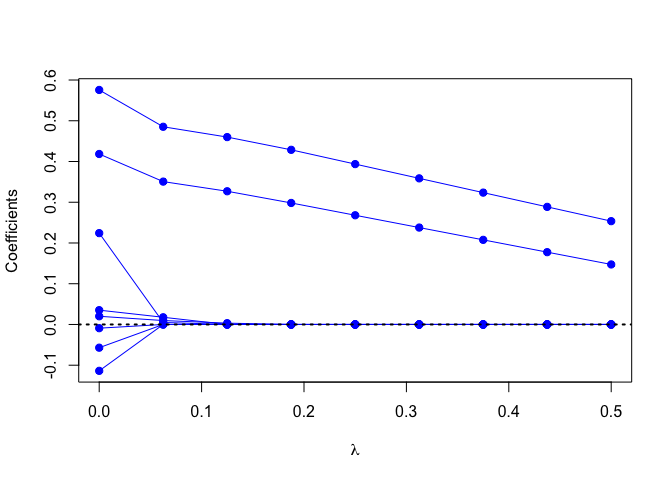
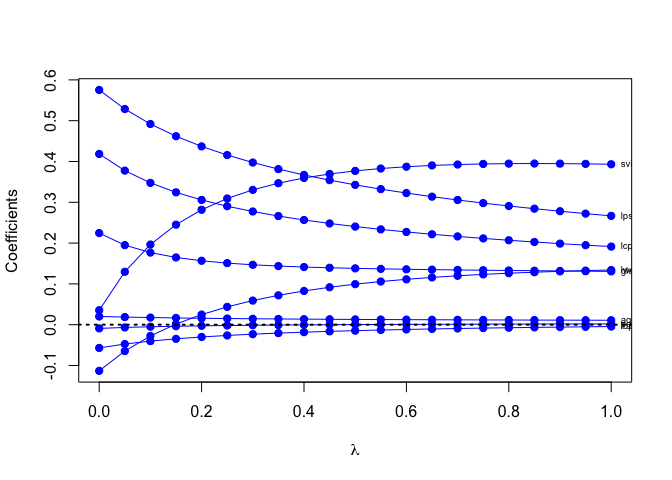
hw3 path diagram fixed

diff --git a/hw3/hw3.md b/hw3/hw3.md
@@ -1,7 +1,7 @@
 Homework 3
 ================
 Painter, Ty
-Thu Feb 25 09:12:05 2021
+Mon Mar 1 20:15:35 2021
 
 # Using the RMarkdown/knitr/github mechanism, implement the following tasks:
 
@@ -164,29 +164,59 @@ library('glmnet')
 form <- lcavol ~ 0 + lweight + age + lbph + lcp + pgg45 + lpsa + svi + gleason # what is this?
 x_inp <- model.matrix(form, data=prostate_train) # math to form this matrix?
 y_out <- prostate_train$lcavol
-ridge_reg <- glmnet(x=x_inp, y=y_out, lambda=seq(0.5, 0, length=9))
+ridge_reg <- glmnet(x=x_inp, y=y_out, lambda=seq(1, 0, -0.05), alpha=0)
 print(ridge_reg$beta) # beta over sequence of lambda
 ```
 
-    ## 8 x 9 sparse Matrix of class "dgCMatrix"
-    ##                s0        s1        s2        s3        s4        s5          s6
-    ## lweight .         .         .         .         .         .         .          
-    ## age     .         .         .         .         .         .         0.003222941
-    ## lbph    .         .         .         .         .         .         .          
-    ## lcp     0.1473018 0.1774814 0.2076694 0.2378575 0.2680456 0.2982337 0.326967382
-    ## pgg45   .         .         .         .         .         .         .          
-    ## lpsa    0.2535992 0.2886141 0.3236241 0.3586341 0.3936441 0.4286541 0.459932037
-    ## svi     .         .         .         .         .         .         .          
-    ## gleason .         .         .         .         .         .         .          
-    ##                  s7           s8
-    ## lweight .           -0.113830185
-    ## age     0.009626789  0.020117489
-    ## lbph    .           -0.056999080
-    ## lcp     0.350633927  0.418428323
-    ## pgg45   .           -0.009111341
-    ## lpsa    0.485226383  0.575597098
-    ## svi     0.017659982  0.035138413
-    ## gleason 0.004936519  0.224229463
+    ## 8 x 21 sparse Matrix of class "dgCMatrix"
+
+    ##    [[ suppressing 21 column names 's0', 's1', 's2' ... ]]
+
+    ##                                                                        
+    ## lweight  0.134011768  0.132519303  0.130744989  0.12864629  0.126173874
+    ## age      0.010831546  0.010978458  0.011134907  0.01130146  0.011479518
+    ## lbph    -0.004560822 -0.005201797 -0.005890082 -0.00664143 -0.007463984
+    ## lcp      0.191466551  0.194960124  0.198707284  0.20268660  0.206927271
+    ## pgg45    0.001911765  0.001819567  0.001717172  0.00160264  0.001474237
+    ## lpsa     0.266701008  0.272237464  0.278098369  0.28432224  0.290951107
+    ## svi      0.393190716  0.394166669  0.394766200  0.39498592  0.394751914
+    ## gleason  0.130622340  0.131177369  0.131718104  0.13227818  0.132866067
+    ##                                                                            
+    ## lweight  0.123269424  0.119863280  0.1158716818  0.1111931576  0.1057367423
+    ## age      0.011670740  0.011877123  0.0121010799  0.0123455384  0.0126162948
+    ## lbph    -0.008367417 -0.009363256 -0.0104653587 -0.0116905450 -0.0130587545
+    ## lcp      0.211463925  0.216338199  0.2216006089  0.2273130852  0.2336122365
+    ## pgg45    0.001329887  0.001167084  0.0009827841  0.0007732439  0.0005320808
+    ## lpsa     0.298034210  0.305629735  0.3138070249  0.3226494596  0.3322362737
+    ## svi      0.393974524  0.392543942  0.3903246503  0.3871479640  0.3827345083
+    ## gleason  0.133493280  0.134175190  0.1349324324  0.1357928799  0.1368039677
+    ##                                                                             
+    ## lweight  0.0992845548  9.167569e-02  0.0826683974  0.0719539790  0.059127616
+    ## age      0.0129137196  1.324527e-02  0.0136179442  0.0140406458  0.014526957
+    ## lbph    -0.0145982826 -1.633988e-02 -0.0183250234 -0.0206075810 -0.023258103
+    ## lcp      0.2404842462  2.481056e-01  0.2566365841  0.2662889676  0.277447149
+    ## pgg45    0.0002563424 -6.281817e-05 -0.0004352185 -0.0008738898 -0.001398912
+    ## lpsa     0.3427336970  3.542772e-01  0.3670625821  0.3813402190  0.397429712
+    ## svi      0.3769402232  3.693573e-01  0.3595330231  0.3468674177  0.330415198
+    ## gleason  0.1380061651  1.394762e-01  0.1413173664  0.1436779613  0.146778188
+    ##                                                                         
+    ## lweight  0.043652593  0.024777969  0.001504802 -0.027603986 -0.064680201
+    ## age      0.015088490  0.015748487  0.016532948  0.017480107  0.018643148
+    ## lbph    -0.026377963 -0.030098852 -0.034621150 -0.040241264 -0.047425776
+    ## lcp      0.290342311  0.305728439  0.324372008  0.347616547  0.377657417
+    ## pgg45   -0.002031353 -0.002810371 -0.003788173 -0.005050263 -0.006739814
+    ## lpsa     0.415786556  0.437009864  0.461951799  0.491849702  0.528596455
+    ## svi      0.309283880  0.281608260  0.245177911  0.196427346  0.129711598
+    ## gleason  0.150949425  0.156678907  0.164800413  0.176722769  0.194999807
+    ##                     
+    ## lweight -0.113137304
+    ## age      0.020098181
+    ## lbph    -0.056962692
+    ## lcp      0.418431830
+    ## pgg45   -0.009116838
+    ## lpsa     0.575318051
+    ## svi      0.035342349
+    ## gleason  0.224585243
 
 ``` r
 ## functions to compute testing/training error with glmnet
@@ -198,10 +228,10 @@ ridge_error <- function(data, fit, lambda, form, loss=L2_loss) {
 }
 
 ## minimize test error
-ridge_error(prostate_test, ridge_reg, lambda=.21, form=form) 
+ridge_error(prostate_test, ridge_reg, lambda=.12, form=form) 
 ```
 
-    ## [1] 0.4641289
+    ## [1] 0.4911847
 
   - Create a figure that shows the training and test error associated
     with ridge regression as a function of lambda
@@ -218,12 +248,13 @@ test_err <- sapply(ridge_reg$lambda, function(lambda)
 ## plot test/train error
 plot(x=range(ridge_reg$lambda),
      y=range(c(train_err, test_err)),
+     xlim=rev(range(ridge_reg$lambda)),
      type='n',
      xlab=expression(lambda),
      ylab='train/test error')
 points(ridge_reg$lambda, train_err, pch=19, type='b', col='darkblue')
-points(ridge_reg$lambda, test_err, pch=19, type='b', col='darkred')
-legend('topleft', c('train','test'), lty=1, pch=19,
+points(ridge_reg$lambda, test_err, pch=19, type='b', col='darkred') # nice 'u' shape, 0.1 minimize test error
+legend('topright', c('train','test'), lty=1, pch=19,
        col=c('darkblue','darkred'), bty='n')
 ```
 
@@ -246,14 +277,13 @@ plot(x=range(ridge_reg$lambda),
      xlab=expression(lambda),
      ylab='Coefficients')
 for(i in 1:nrow(ridge_reg$beta)) {
-  points(x=ridge_reg$lambda, y=ridge_reg$beta[i,], pch=19, col='blue')
-  lines(x=ridge_reg$lambda, y=ridge_reg$beta[i,], col='blue')
+  points(x=ridge_reg$lambda, y=ridge_reg$beta[i,], pch=19, col = "blue")
+  lines(x=ridge_reg$lambda, y=ridge_reg$beta[i,], col = "blue")
 }
 abline(h=0, lty=3, lwd=2)
+text(ridge_reg$lambda[1], ridge_reg$beta[1:nrow(ridge_reg$beta)],  row.names(as.matrix(ridge_reg$beta)),
+     cex=0.6, pos=4,col="black")
 ```
 
-![](hw3_files/figure-gfm/unnamed-chunk-7-1.png)<!-- -->
-
-## Links
-
+![](hw3_files/figure-gfm/unnamed-chunk-7-1.png)<!-- --> \#\# Links
 (<https://lagunita.stanford.edu/courses/HumanitiesSciences/StatLearning/Winter2016/about>)
